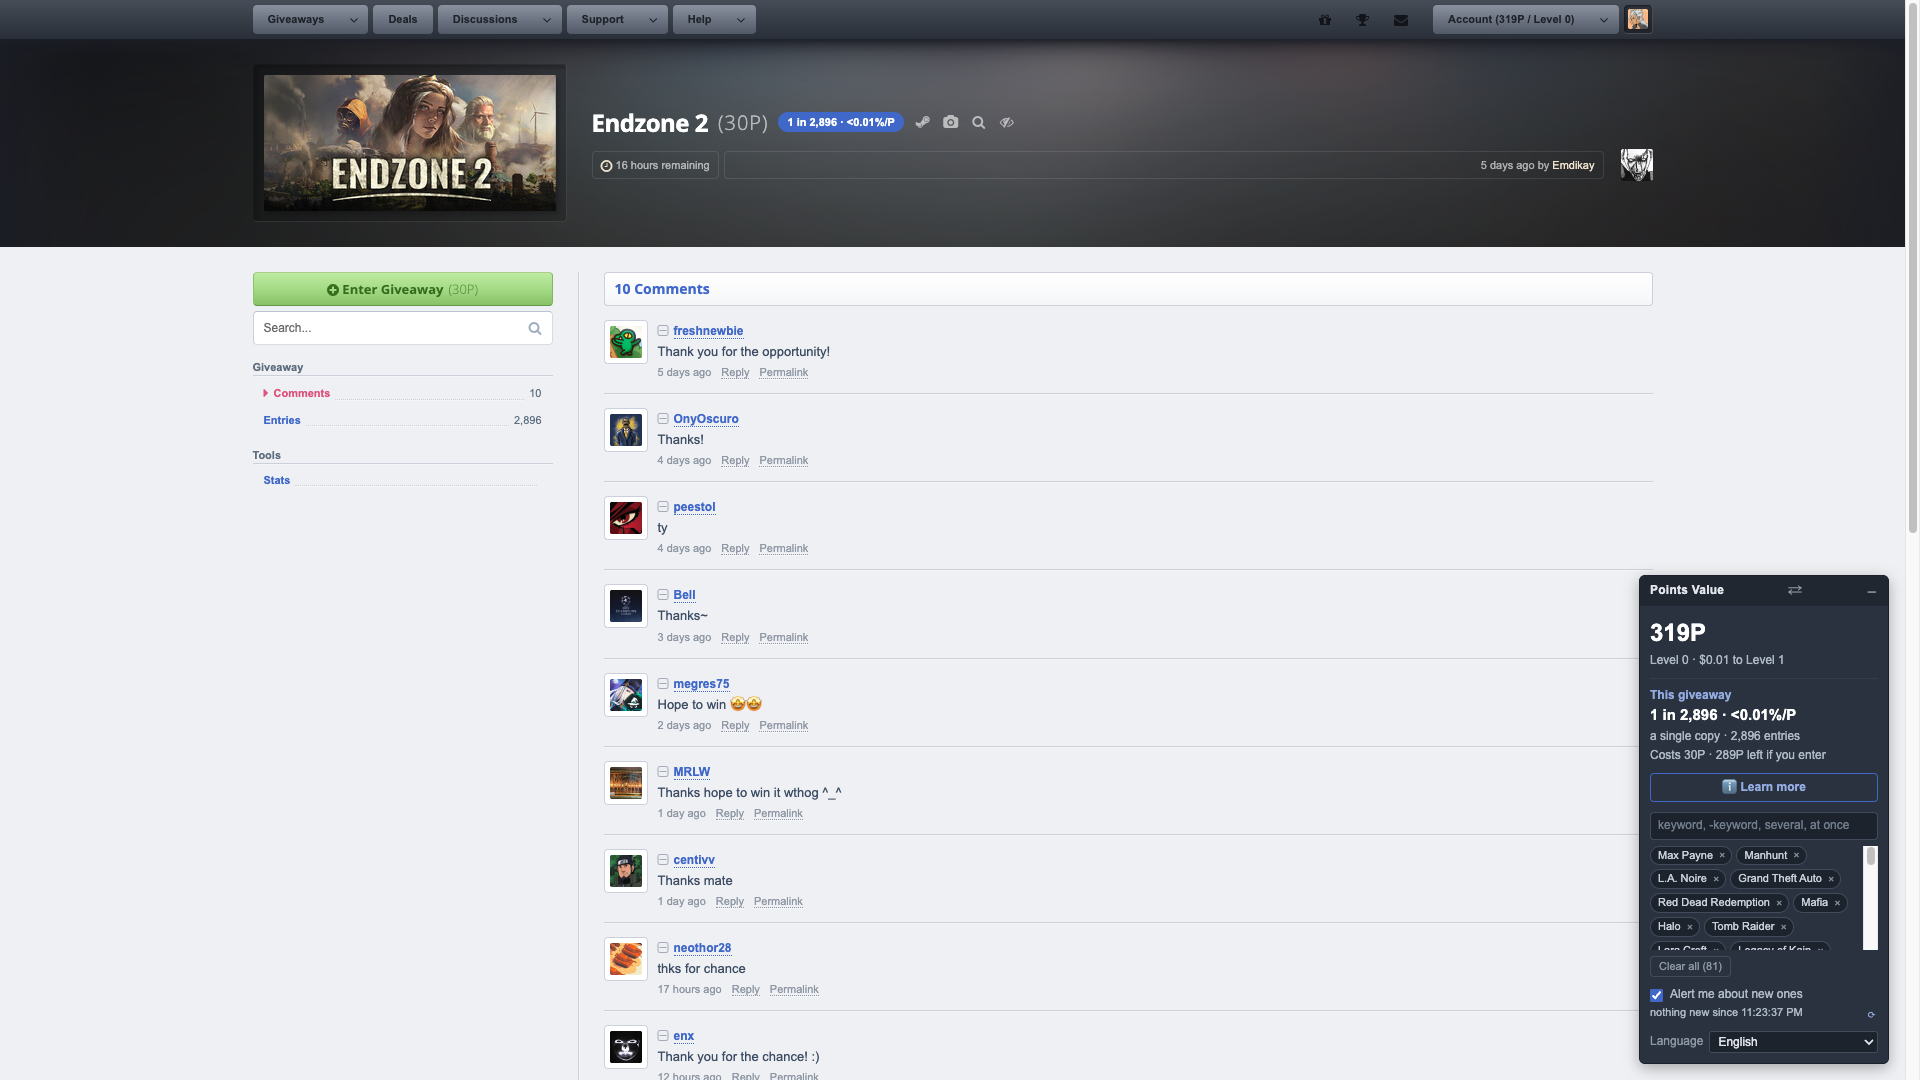
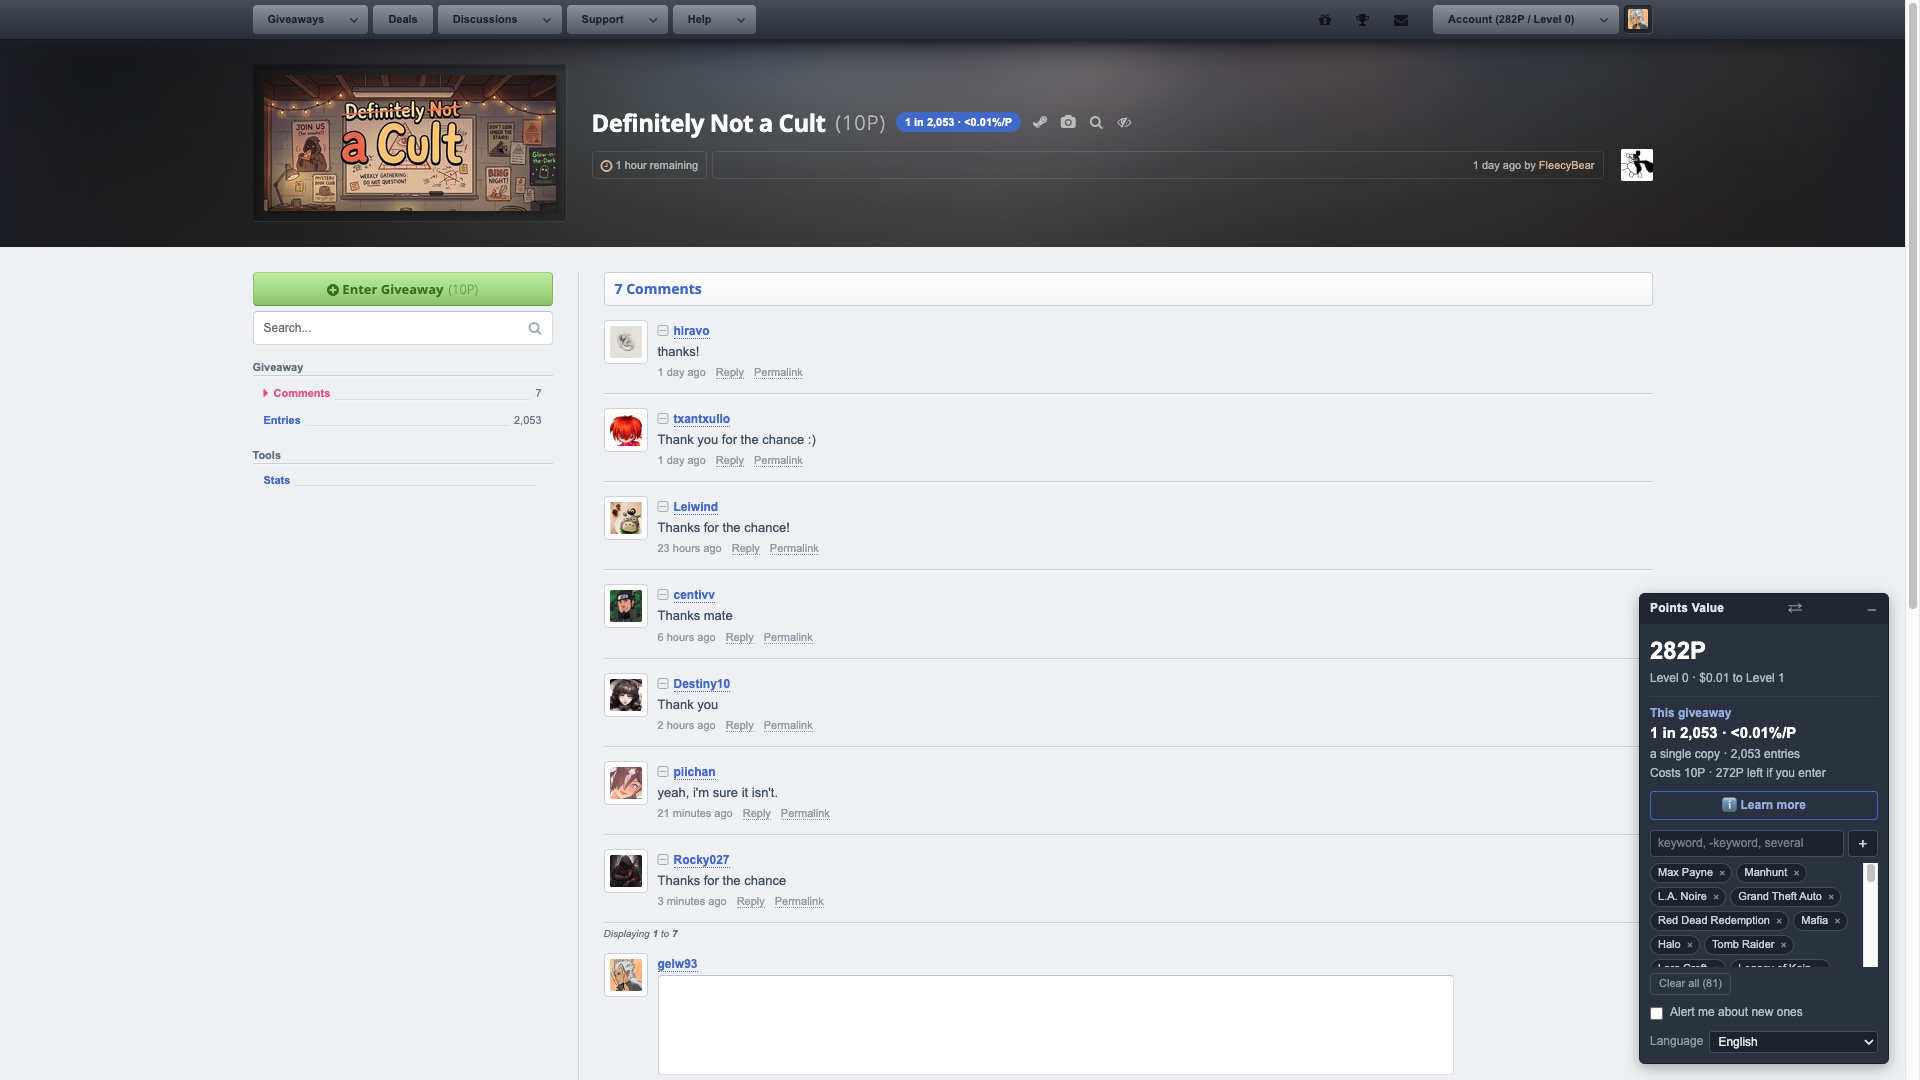
docs(steamgifts-points-value): capturas al día con el + de la caja de palabras clave y cifras nuevas en los pies

diff --git a/README.md b/README.md
@@ -6,15 +6,15 @@ Tampermonkey userscript that works out the real odds of every SteamGifts giveawa
 
 *The listing: odds and value per point on every row, sorted best-first, the widget with your balance, your level, what is within reach, your keywords and the three checkboxes, and on the opposite side the panel listing your matches — click one and it jumps to its row. Both fold to their header. / El listado: probabilidad y valor por punto en cada fila, ordenado de mejor a peor, el widget con tu saldo, tu nivel, lo que te alcanza, tus palabras clave y las tres casillas, y al otro lado el panel que lista tus coincidencias —pulsa una y salta a su fila—. Los dos se pliegan a su cabecera.*
 
-![The same listing with "show matches only" and the alerts on: every visible row is amber, four more pages have been loaded, and the panel lists the seven matches each with a bell and an eye](docs/screenshot-matches-only.png)
+![The same listing with the alerts on: three more pages have been loaded and the panel lists the four matches, each with a bell and an eye](docs/screenshot-matches-only.png)
 
-*The same page with the alerts on: the pass pulled four more pages into it —187 giveaways— and flagged the seven that match, each with a 🔔 in the panel and an eye that marks it as seen; "show matches only" then leaves just those seven painted. Nothing is removed, and the widget says when it last checked. / La misma página con los avisos puestos: la revisión trajo cuatro páginas más —187 sorteos— y marcó los siete que casan, cada uno con su 🔔 en el panel y su ojo para darlo por visto; «mostrar solo coincidencias» deja pintados solo esos siete. No se quita nada, y el widget dice cuándo revisó por última vez.*
+*The same page with the alerts on: the pass pulled three more pages into it —125 giveaways— and flagged the four that match, each with a 🔔 in the panel and an eye that marks it as seen, and the widget says when it last checked. Nothing is removed: tick "show matches only" and the rest of the rows just stop being painted. / La misma página con los avisos puestos: la revisión trajo tres páginas más —125 sorteos— y marcó los cuatro que casan, cada uno con su 🔔 en el panel y su ojo para darlo por visto, y el widget dice cuándo revisó por última vez. No se quita nada: marca «mostrar solo coincidencias» y las demás filas solo dejan de pintarse.*
 
-![A single-copy giveaway page: 30P, 2,896 entries, badge reading 1 in 2,896 and under 0.01%/P](docs/screenshot-giveaway-single.png)
+![A single-copy giveaway page: 10P, 2,053 entries, badge reading 1 in 2,053 and under 0.01%/P](docs/screenshot-giveaway-single.png)
 
-![A 50-copy giveaway page: 1P, 4,000 entries, badge reading 1 in 80 and 1.25%/P](docs/screenshot-giveaway-copies.png)
+![A 53-copy giveaway page: 2P, 4,318 entries, badge reading 1 in 81 and 0.61%/P](docs/screenshot-giveaway-copies.png)
 
-*Inside a giveaway: the same two numbers next to its title and in the widget, plus what your balance is left at if you enter. These two are the whole point of the script — 2,896 entries against 4,000 look alike, but one is a single copy at 30P and the other fifty copies at 1P, which is 1 in 2,896 versus 1 in 80, and under 0.01%/P versus 1.25%/P: the crowded one is also the expensive one. / Dentro de un sorteo: los dos mismos números junto a su título y en el widget, además de en cuánto queda tu saldo si entras. Estas dos son el script entero en una imagen —2.896 entradas y 4.000 se parecen, pero uno es de copia única a 30P y el otro de cincuenta copias a 1P, o sea 1 de 2.896 contra 1 de 80, y menos de 0,01 %/P contra 1,25 %/P: el más concurrido es además el caro—.*
+*Inside a giveaway: the same two numbers next to its title and in the widget, plus what your balance is left at if you enter. These two are the whole point of the script — 2,053 entries against 4,318 make the first one look like the safer bet, but that one is a single copy at 10P and the other 53 copies at 2P, which is 1 in 2,053 versus 1 in 81, and under 0.01%/P versus 0.61%/P: the emptier giveaway is the worse one, and it costs five times as much. / Dentro de un sorteo: los dos mismos números junto a su título y en el widget, además de en cuánto queda tu saldo si entras. Estas dos son el script entero en una imagen —2.053 entradas parecen mejor apuesta que 4.318, pero ese es de copia única a 10P y el otro de 53 copias a 2P, o sea 1 de 2.053 contra 1 de 81, y menos de 0,01 %/P contra 0,61 %/P: el menos concurrido es el peor, y encima cuesta cinco veces más—.*
 
 ## English
 
